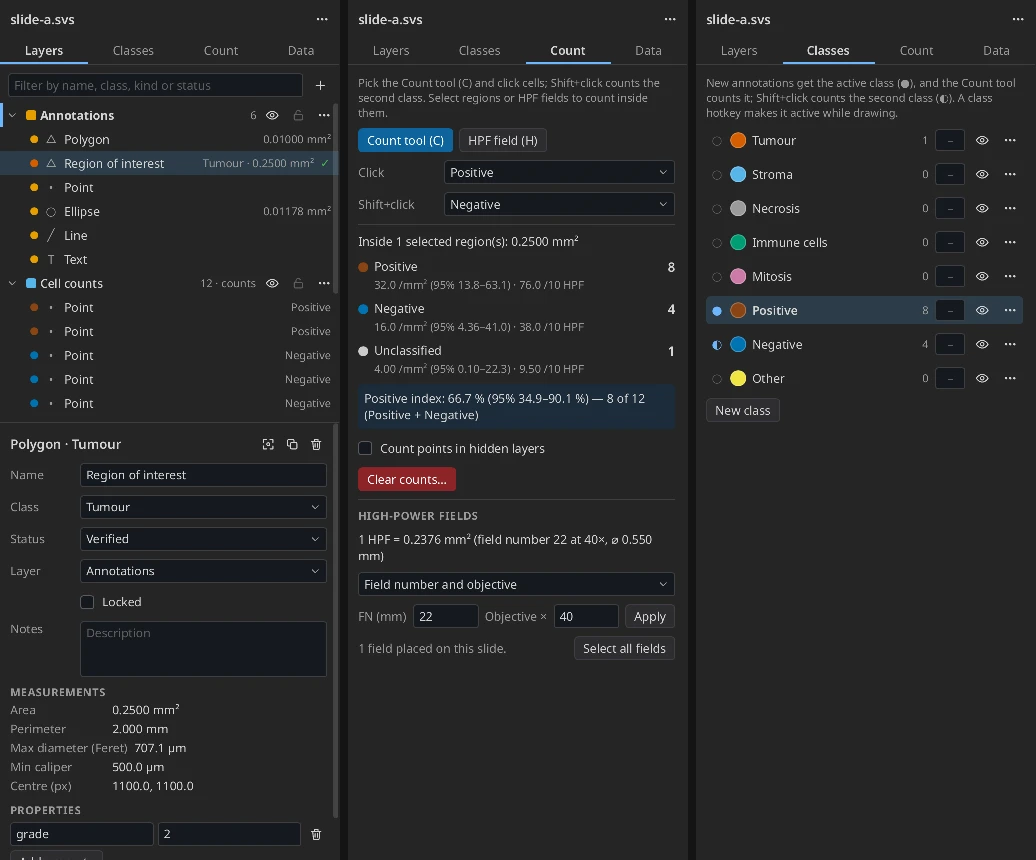
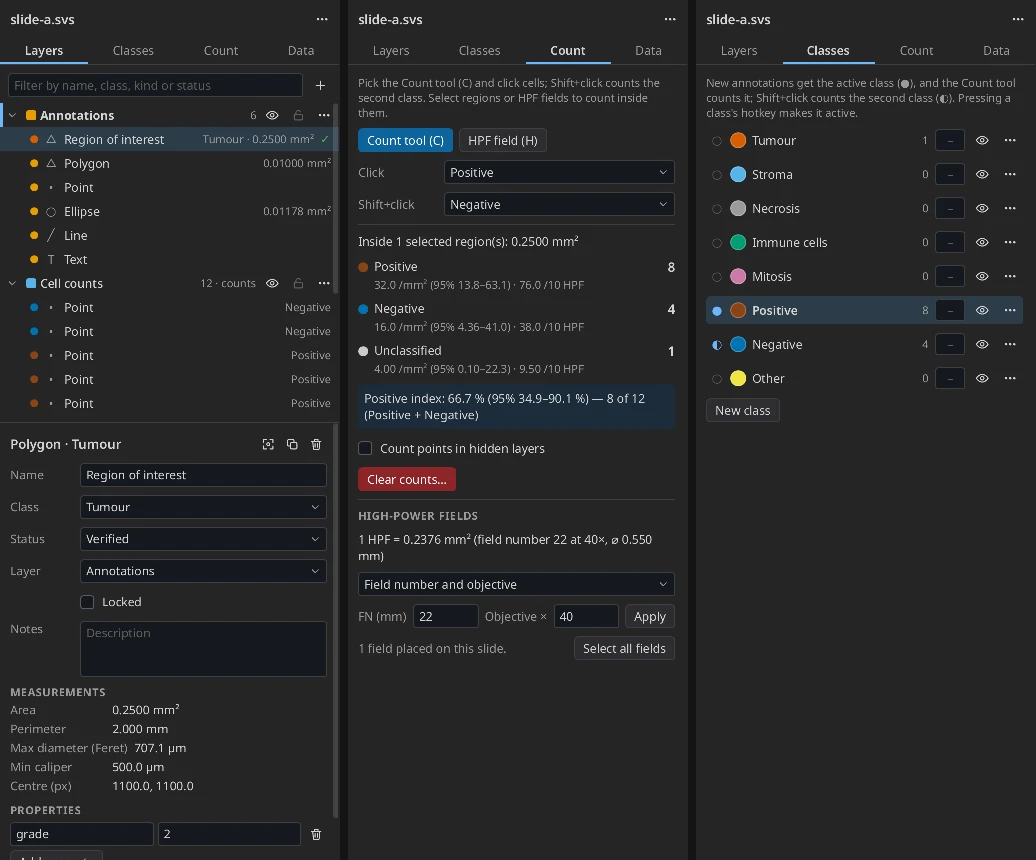
Document the HPF tool, class hotkeys, per-pane hiding and legacy merge

diff --git a/README.md b/README.md
@@ -69,7 +69,7 @@ The tools are in eov's toolbar; each has a key.
 | Ellipse | `O` | Drag an ellipse. |
 | Line / path | `L` | Click the vertices; double-click or Enter finishes. Its length is measured. |
 | Text | `T` | A text label; its text is the annotation's name. |
-| HPF field | `H` | Shows a field of the configured size at the centre of each view; a click places one in the *HPF fields* layer. |
+| HPF field | `H` | A dashed field of the configured size follows the pointer; a click places one in the *HPF fields* layer, a drag pans. |
 
 With one region selected, drawing a polygon, freehand outline, rectangle
 or ellipse with **Shift** adds the shape to that region and with **Alt**
@@ -80,8 +80,8 @@ is clipped to the slide.
 
 Right-clicking the slide offers: show the annotation in the panel, copy its
 measurements, lock or unlock it, delete it, add a point or place an HPF
-field at the cursor, and open the panel. The eye button in each view's HUD
-hides or shows the slide's annotations.
+field at the cursor, and open the panel. The eye button in a view's HUD
+hides or shows the slide's annotations in that view only.
 
 Every change (drawing, editing, deleting, an import, deleting a layer or a
 class) is one step in eov's undo history, **Ctrl+Z** / **Ctrl+Shift+Z** (⌘ on
@@ -113,11 +113,12 @@ Classes (Tumour, Stroma, Necrosis, Immune cells, Mitosis, Positive,
 Negative and Other to begin with) are shared by all slides. Each has a
 colour, an optional one-key hotkey, visibility and opacity, and shows how
 many annotations of the active slide use it. Click a class to make it the
-*active class*: new annotations get it and the Count tool counts it. A
-class with a hotkey also gets a toolbar button, so its key selects it while
-you draw. The second count class (Shift+click with the Count tool) is
-chosen in the class's `⋯` settings or in the Count tab. Deleting a class
-leaves its annotations unclassified (with undo).
+*active class*: new annotations get it and the Count tool counts it.
+Pressing a class's hotkey makes it active; if eov or another plugin already
+uses the key, eov says so and the class shows why its key does not work.
+The second count class (Shift+click with the Count tool) is chosen in the
+class's `⋯` settings or in the Count tab. Deleting a class leaves its
+annotations unclassified (with undo).
 
 ### Counting
 
@@ -141,10 +142,18 @@ count points of the slide (with undo).
 
 The field size is given as a field number and objective (the default is
 FN 22 at 40×, 0.2376 mm²) or directly as an area in mm². With the HPF
-field tool active, a field outline sits at the centre of each view; click
-to place one. Placed fields are ordinary regions in the *HPF fields* layer:
-select them (**Select all fields**) to count inside them. Without a pixel
-size, fields cannot be sized and are refused.
+field tool active, a field outline follows the pointer, labelled with what
+it would count; click to place a field, drag to pan, use the wheel to zoom.
+Placed fields are ordinary regions in the *HPF fields* layer: select them
+(**Select all fields**) to count inside them. Without a pixel size, fields
+cannot be sized and are refused.
+
+eov hands this tool every key except Tab and Ctrl/⌘ shortcuts, so the tool
+handles the ones needed while placing fields: **Esc** (or `N`, or `H`
+again) leaves it, the other tools' keys switch to them, class hotkeys choose
+the class, and `+`, `-`, `F` and the arrows zoom, fit and pan. eov's other
+single keys (`R`, `D`, `M`, `I`, the magnification digits, Page Up/Down,
+F11) work again once the tool is left.
 
 ### Measurements
 
@@ -271,10 +280,14 @@ in use.
 Before eov 1.0 the plugin kept its database in eov's settings folder
 (`~/.config/eov/annotations.db` on Linux, `~/Library/Application
 Support/eov/annotations.db` on macOS, `%APPDATA%\eov\annotations.db` on
-Windows). The plugin no longer looks there. To bring those annotations in,
-use **Merge…** in the Data tab and choose that file; or point
-`database_path` at it to keep using it (it is upgraded in place, after
-which older versions of the plugin cannot read it, so back it up first).
+Windows). eov tells the plugin where that folder is; when it holds an
+`annotations.db`, the plugin offers once, at start, to bring its
+annotations into the current database (the old file is only read), and the
+Data tab keeps offering it until it is done. **Merge…** in the Data tab
+does the same for any other database file. You can also point
+`database_path` at the old file to keep using it (it is upgraded in place,
+after which older versions of the plugin cannot read it, so back it up
+first).
 Slides of the old database are recognised by their old sampled fingerprint
 the first time they are opened (computed in the background) and linked to
 their eov identity from then on. Exports of the old plugin (format 1) can
@@ -339,14 +352,11 @@ their SHA-256 hashes and immutable URLs, and publish them.
 
 These depend on what eov's plugin API offers today:
 
-- The HPF field outline sits at the centre of each view rather than
-  following the mouse: eov does not report hover positions to plugin tools.
-- Class hotkeys are toolbar buttons (eov has no other way for a plugin to
-  bind a key), so they share the toolbar's limit of 32 buttons.
-- Hiding annotations from a view's HUD hides them in every view of that
-  slide.
-- Selecting an annotation in the list highlights it on the slide by
-  restyling it, not with eov's own hover highlight.
+- While the HPF field tool is active, eov gives it every key but Tab and
+  Ctrl/⌘ shortcuts, so only the keys listed under
+  [High-power fields](#high-power-fields) work until it is left.
+- A region made of several separate parts is stored as several
+  annotations (eov's shapes have no multipolygon).
 
 Not done yet: arrows, a brush with eraser, NDPA and DICOM annotation
 formats, export to ASAP or ImageScope XML, comment threads and blinded
